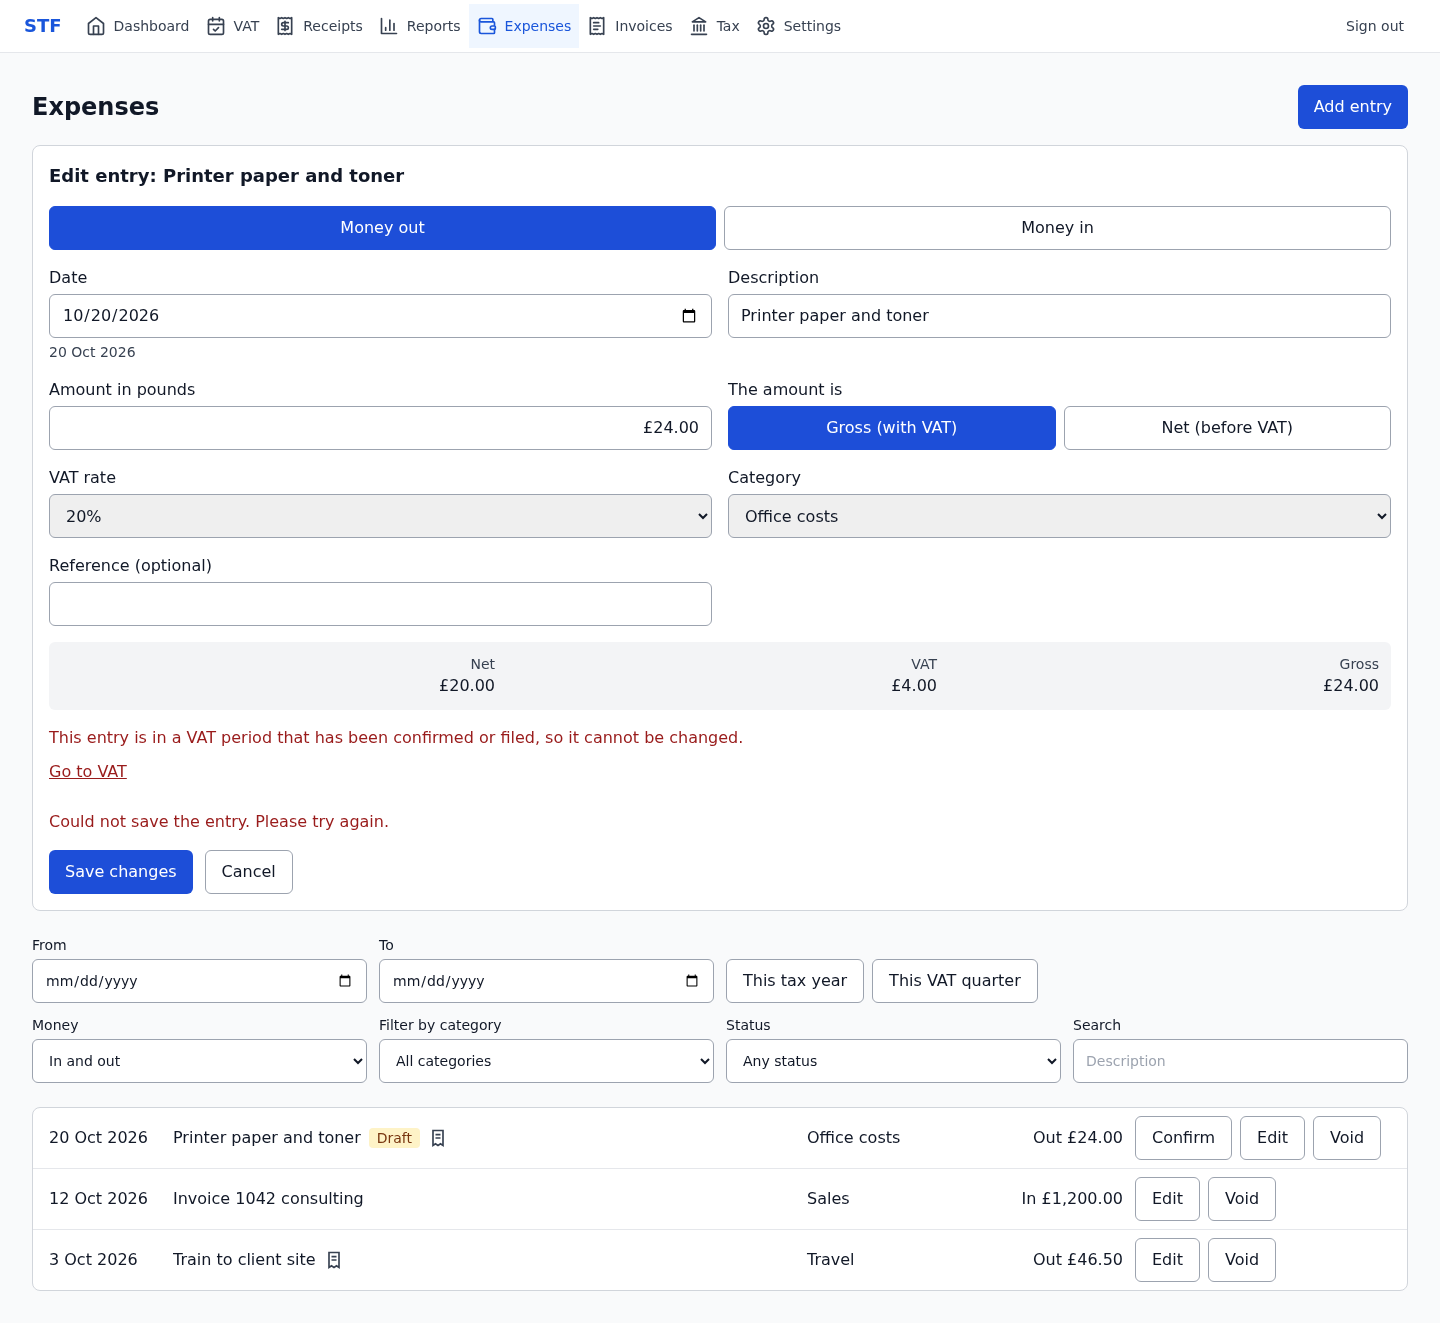
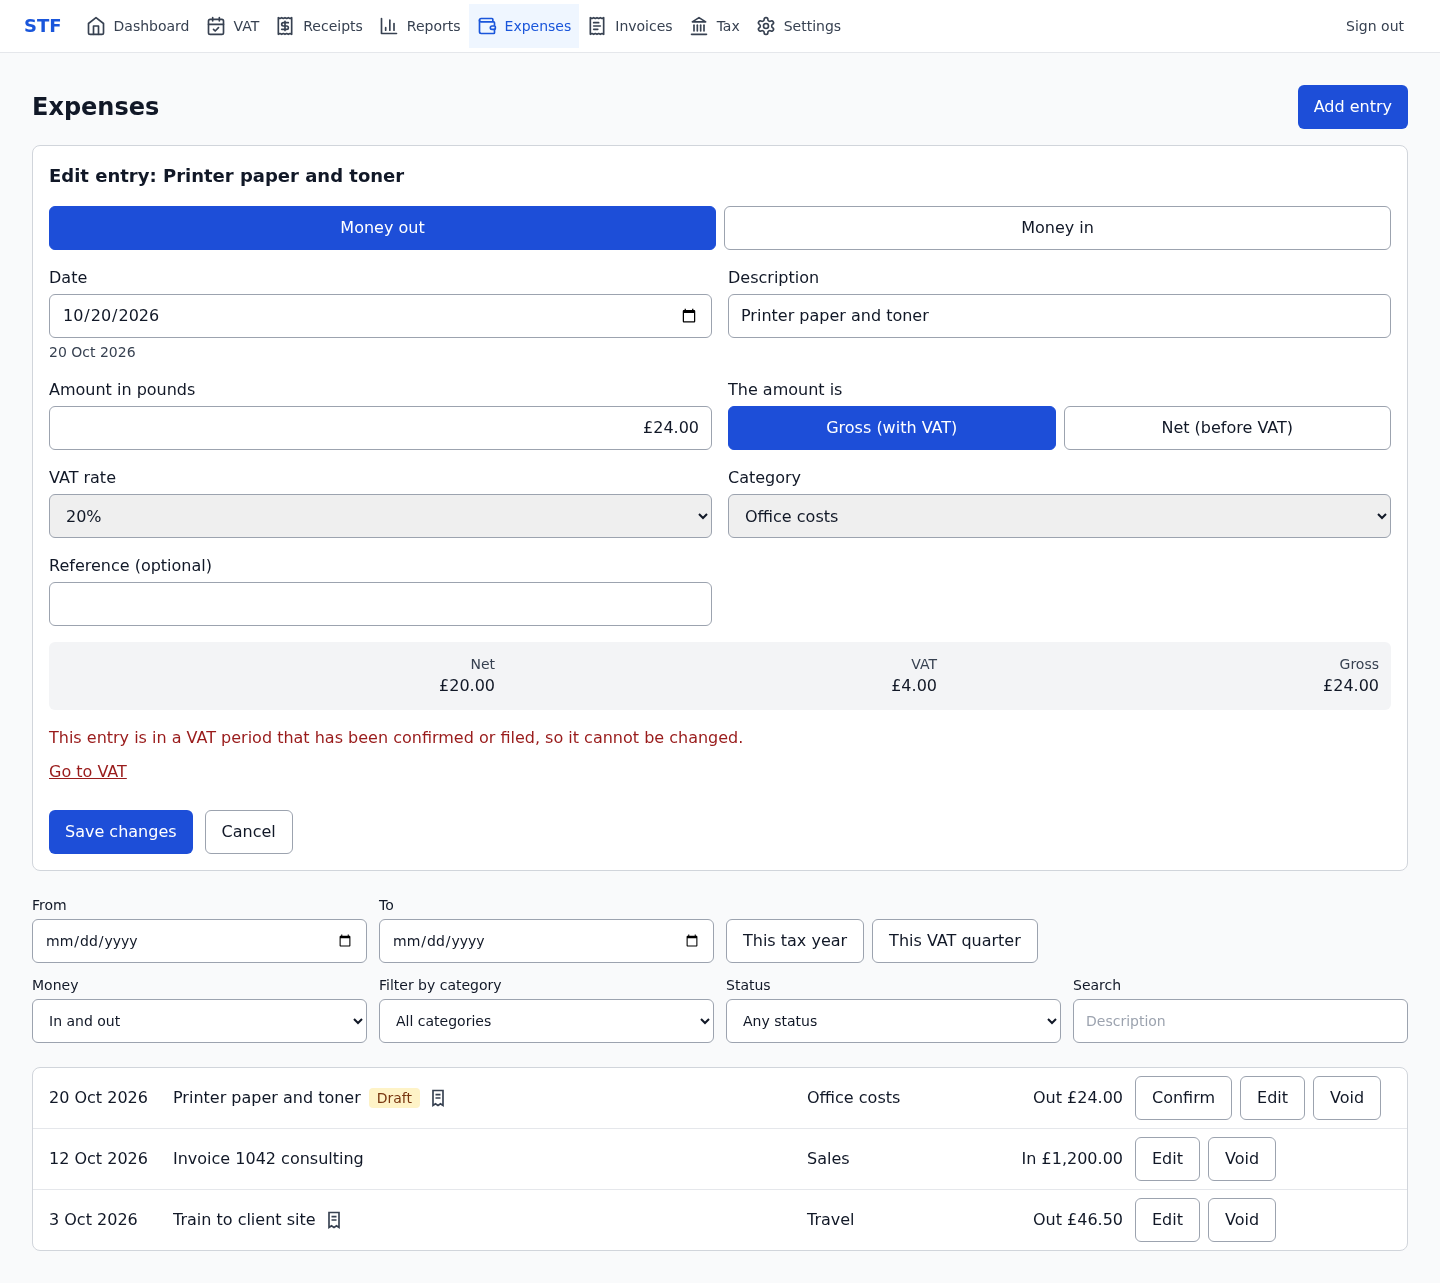
STF-68: locked-period refusal no longer adds a retry message; recapture locked screenshots

diff --git a/src/pages/ExpensesPage.test.tsx b/src/pages/ExpensesPage.test.tsx
@@ -208,5 +208,6 @@ describe('ExpensesPage edit entry', () => {
     fireEvent.click(screen.getByRole('button', { name: 'Save changes' }));
     expect(await screen.findByText(/VAT period that has been confirmed or filed/)).toBeInTheDocument();
     expect(screen.getByRole('link', { name: 'Go to VAT' })).toHaveAttribute('href', '/vat');
+    expect(screen.queryByText(/Please try again/)).not.toBeInTheDocument();
   });
 });

diff --git a/src/pages/ExpensesPage.tsx b/src/pages/ExpensesPage.tsx
@@ -159,6 +159,11 @@ function AddEntryForm({
       if (entry) onDone();
     },
     onError: (error) => {
+      // A locked period is permanent; LockedMessage explains it, so no retry text.
+      if (error instanceof PeriodLockedError) {
+        setErrors({});
+        return;
+      }
       const fields =
         error instanceof EntryRefusedError
           ? error.fields.flatMap((field) => FORM_FIELD[field] ?? [])
